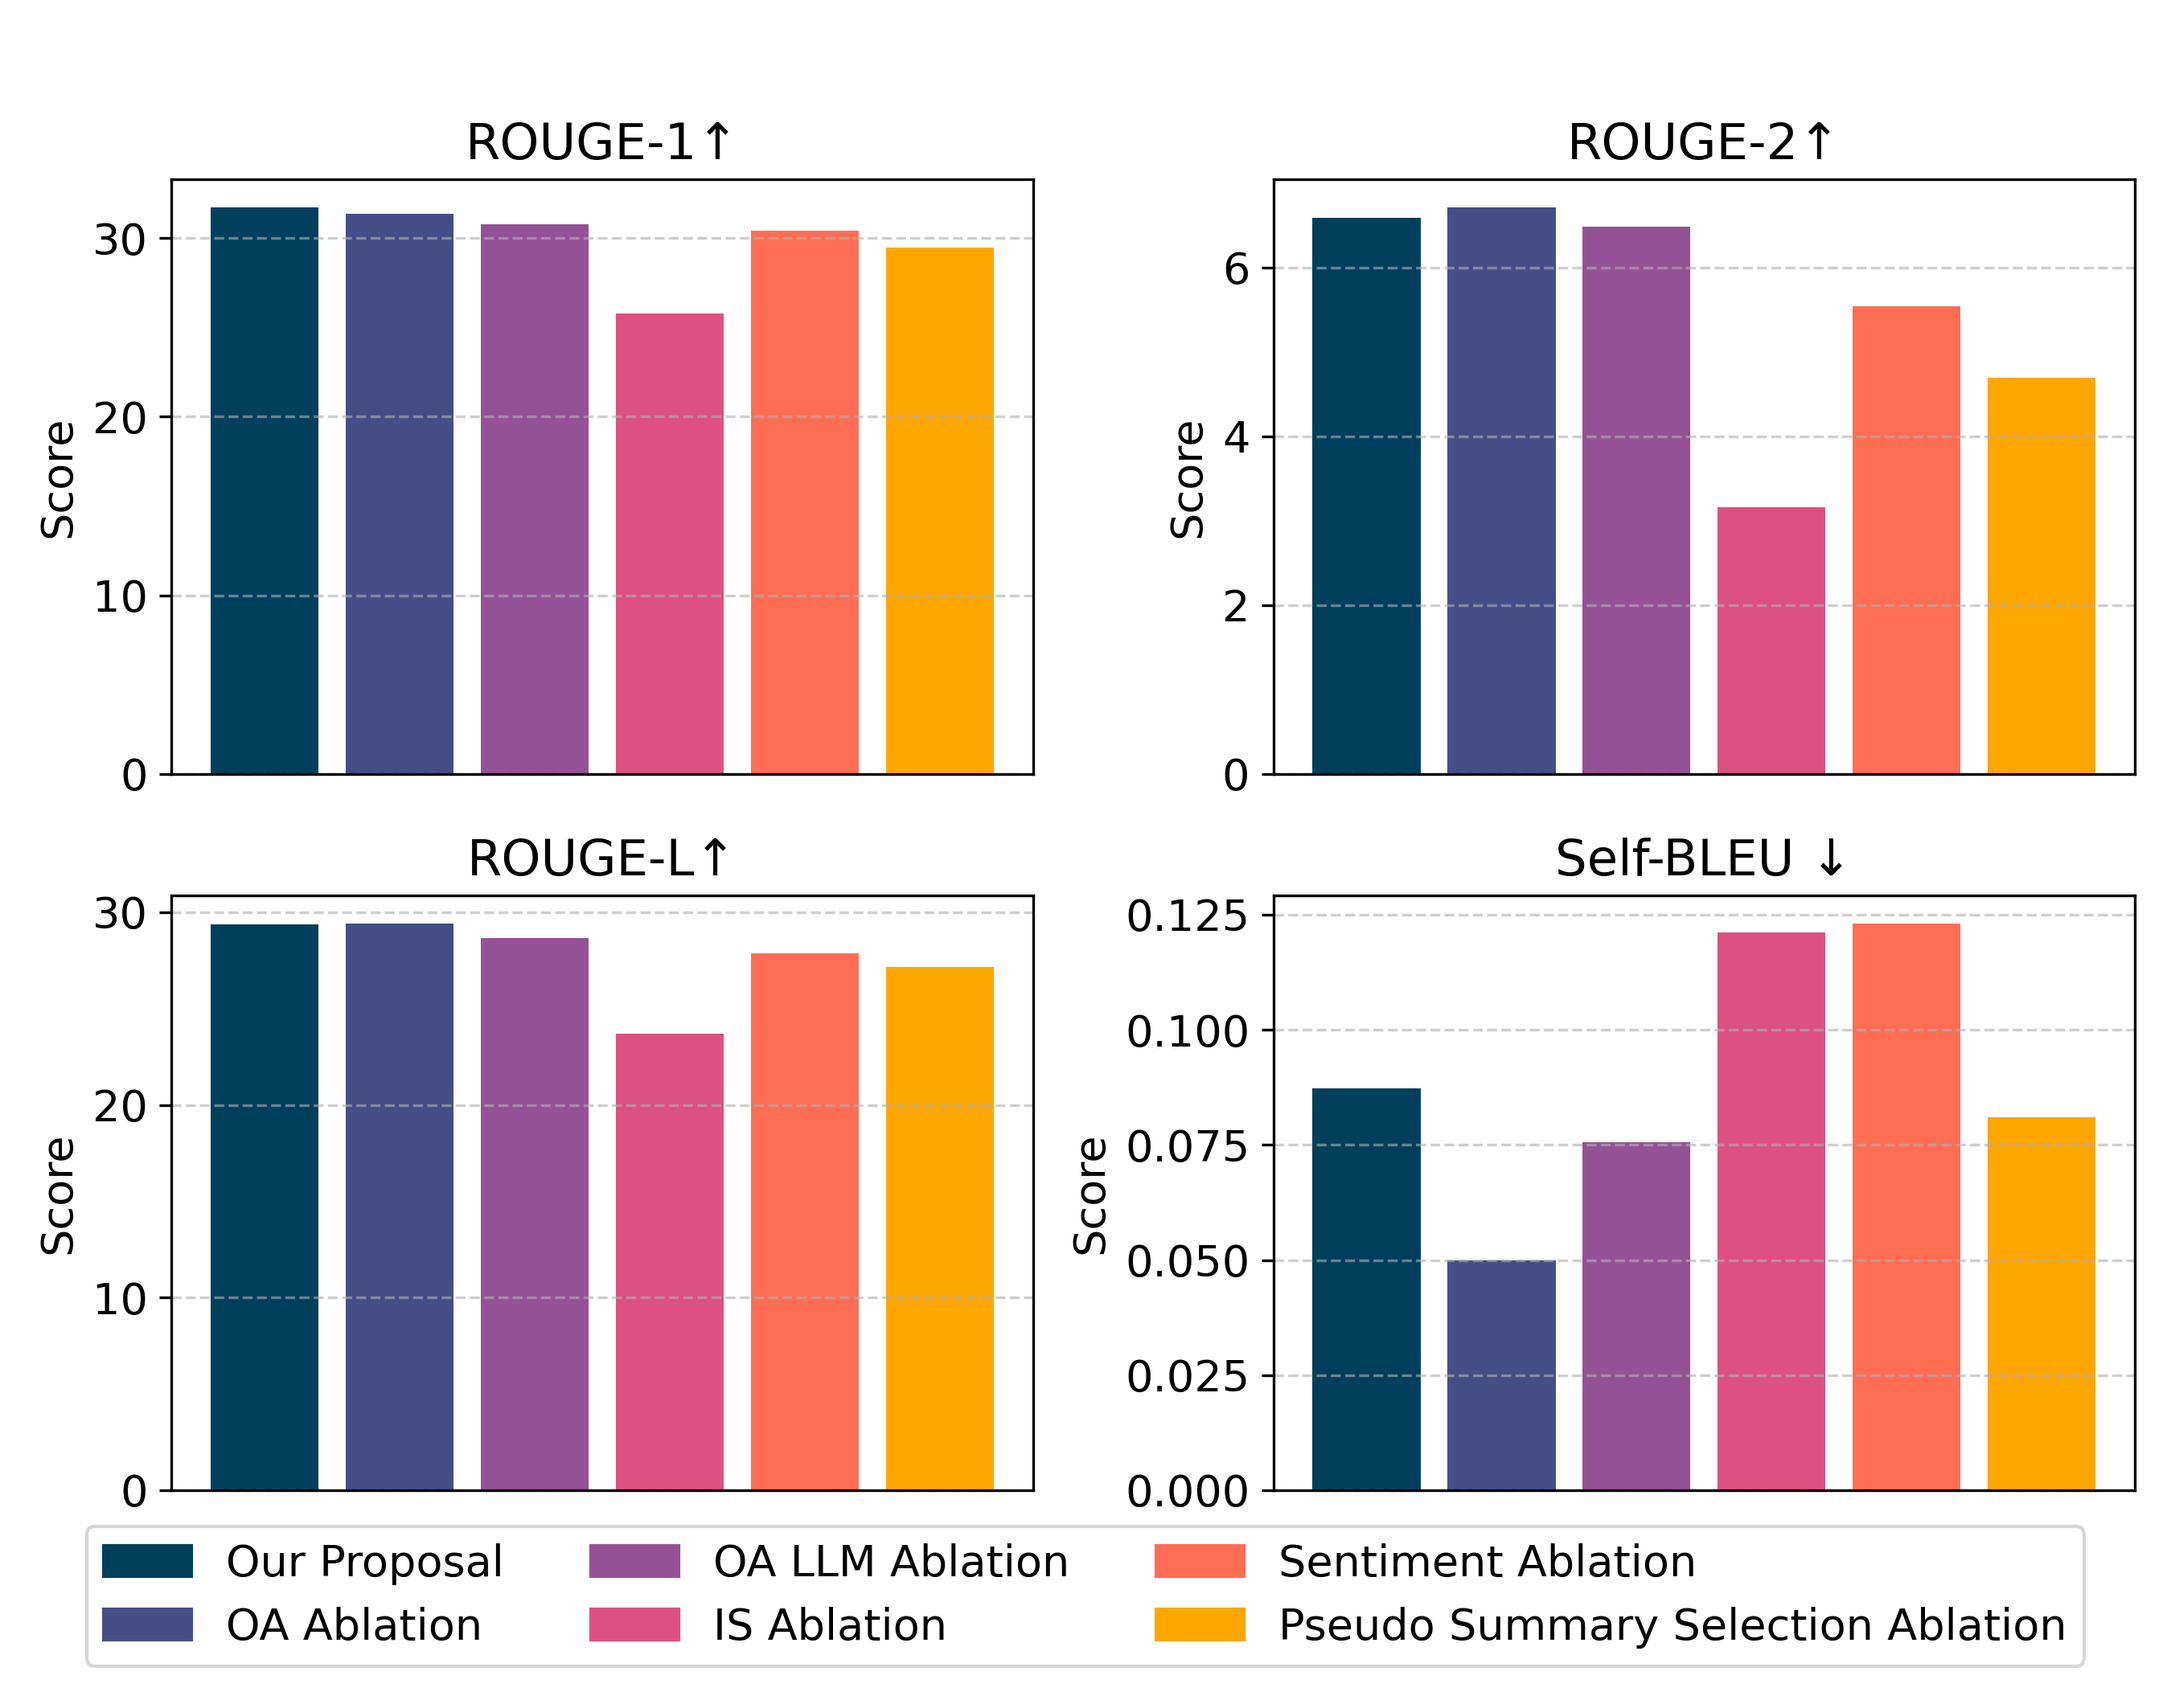
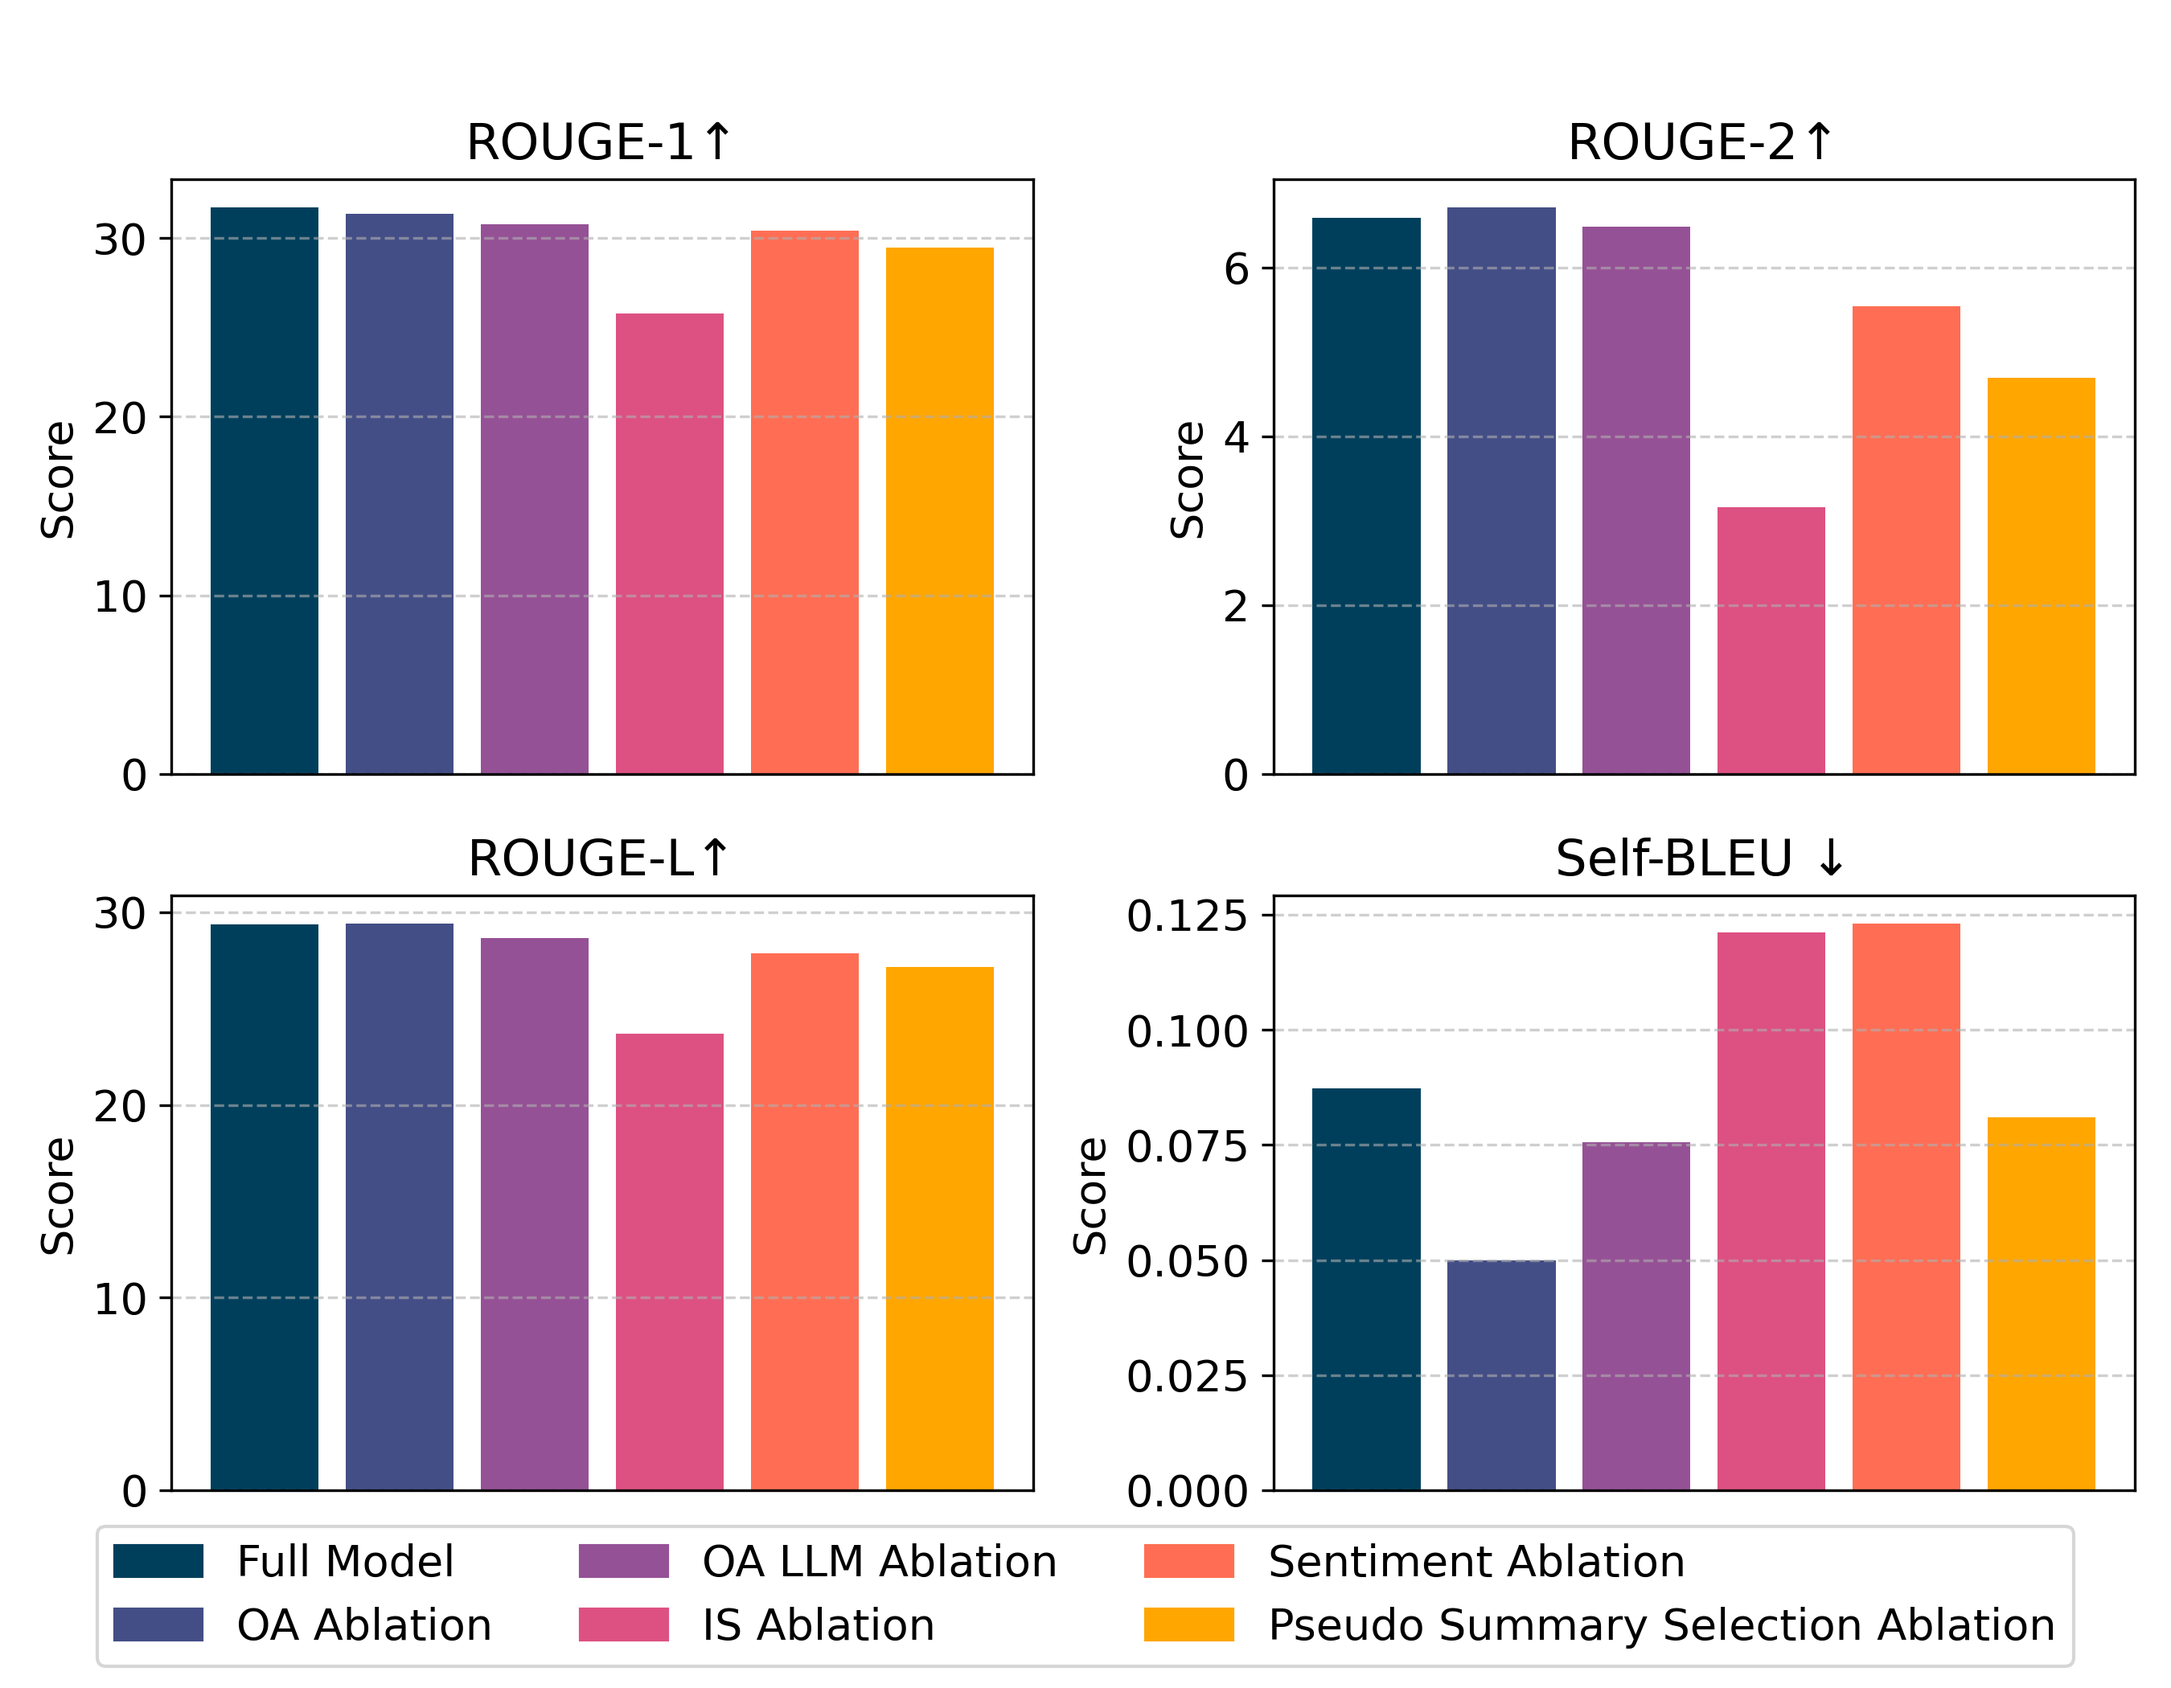
figure

diff --git a/proposal/figure/ablation.py b/proposal/figure/ablation.py
@@ -1,15 +1,18 @@
 import matplotlib.pyplot as plt
 import numpy as np
 
-# Tên các biến thể
+# Cấu hình
 variants = [
-    "Our Proposal", 
+    "Full Model", 
     "OA Ablation", 
     "OA LLM Ablation", 
     "IS Ablation", 
     "Sentiment Ablation", 
-    "Pseudo Summary Selection Ablation"
+    "Pseudo-sum Selection Ablation"
 ]
+x = np.arange(len(variants))
+fontsize = 13
+colors = ['orange', 'coral', 'crimson', 'hotpink']
 
 # Amazon dataset scores
 amazon_rouge1 = [31.71, 31.34, 30.76, 25.76, 30.40, 29.48]
@@ -23,37 +26,33 @@ yelp_rouge2 = [3.88, 2.58, 3.11, 2.52, 3.36, 2.84]
 yelp_rougeL = [23.09, 19.77, 22.79, 21.01, 22.36, 20.32]
 yelp_div = [0.4718, 0.2043, 0.4266, 0.3395, 0.5416, 0.4257]
 
-# Hàm vẽ 4 biểu đồ con trên cùng 1 trang
-def plot_ablation_bars(r1, r2, rL, div, title, filename):
-    x = np.arange(len(variants))
-    width = 0.6
-    colors = ['orange', 'coral', 'crimson', 'hotpink']
-    
+# Hàm tạo plot
+def plot_ablation_clean(r1, r2, rL, div, filename):
     fig, axs = plt.subplots(2, 2, figsize=(14, 10))
-    fig.suptitle(f"Ablation Study on {title} Dataset", fontsize=16)
 
     axs[0, 0].bar(x, r1, color=colors[0])
-    axs[0, 0].set_title("ROUGE-1")
-    
+    axs[0, 0].set_title("ROUGE-1", fontsize=fontsize)
+
     axs[0, 1].bar(x, r2, color=colors[1])
-    axs[0, 1].set_title("ROUGE-2")
-    
+    axs[0, 1].set_title("ROUGE-2", fontsize=fontsize)
+
     axs[1, 0].bar(x, rL, color=colors[2])
-    axs[1, 0].set_title("ROUGE-L")
-    
+    axs[1, 0].set_title("ROUGE-L", fontsize=fontsize)
+
     axs[1, 1].bar(x, div, color=colors[3])
-    axs[1, 1].set_title("Self-BLEU ↓")
+    axs[1, 1].set_title("Self-BLEU ↓", fontsize=fontsize)
 
     for ax in axs.flat:
         ax.set_xticks(x)
-        ax.set_xticklabels(variants, rotation=25, ha="right")
-        ax.set_ylabel("Score")
+        ax.set_xticklabels(variants, rotation=25, ha="right", fontsize=fontsize)
+        ax.set_ylabel("Score", fontsize=fontsize)
+        ax.tick_params(axis='y', labelsize=fontsize)
         ax.grid(axis='y')
 
-    plt.tight_layout(rect=[0, 0, 1, 0.95])
+    plt.tight_layout()
     plt.savefig(filename, dpi=300)
     plt.close()
 
-# Tạo biểu đồ
-plot_ablation_bars(amazon_rouge1, amazon_rouge2, amazon_rougeL, amazon_div, "Amazon", "ablation_amazon_bars.png")
-plot_ablation_bars(yelp_rouge1, yelp_rouge2, yelp_rougeL, yelp_div, "Yelp", "ablation_yelp_bars.png")
+# Vẽ và lưu ảnh
+plot_ablation_clean(amazon_rouge1, amazon_rouge2, amazon_rougeL, amazon_div, "ablation_amazon_bars_clean.png")
+plot_ablation_clean(yelp_rouge1, yelp_rouge2, yelp_rougeL, yelp_div, "ablation_yelp_bars_clean.png")

diff --git a/proposal/figure/oa_yelp_extract_partial_match.py b/proposal/figure/oa_yelp_extract_partial_match.py
@@ -2,8 +2,11 @@ import matplotlib.pyplot as plt
 
 # ==== Dữ liệu ====
 metrics = ["Precision", "Recall"]
-exact_yelp = [0.308, 0.315]     # Kết quả Exact Match
-partial_yelp = [0.356, 0.363]   # Kết quả Partial Match
+exact_yelp = [0.308, 0.315]
+partial_yelp = [0.356, 0.363]
+
+exact_amazon = [0.253, 0.306]
+partial_amazon = [0.348, 0.422]
 
 x = range(len(metrics))
 width = 0.35
@@ -13,21 +16,30 @@ font_title = 15
 font_label = 13
 font_legend = 13
 
-# ==== Vẽ biểu đồ ====
-fig, ax = plt.subplots(figsize=(8, 5))
-ax.bar([p - width/2 for p in x], exact_yelp, width, label="Exact Match", color="#003f5c")
-ax.bar([p + width/2 for p in x], partial_yelp, width, label="Partial Match", color="#444e86")
+# ==== Vẽ 2 biểu đồ trong 1 hình ====
+fig, axs = plt.subplots(1, 2, figsize=(12, 6), sharey=True)
 
-# ==== Thiết lập nhãn và trục ====
-ax.set_ylabel("Score", fontsize=font_label)
-# ax.set_title("Comparison of Exact vs Partial Matching (Yelp)", fontsize=font_title)
-ax.set_xticks(x)
-ax.set_xticklabels(metrics, fontsize=font_label)
-ax.set_ylim(0, 0.5)
-ax.legend(fontsize=font_legend)
-ax.grid(axis='y')
+# --- Yelp ---
+axs[0].bar([p - width/2 for p in x], exact_yelp, width, label="Exact Match", color="#003f5c")
+axs[0].bar([p + width/2 for p in x], partial_yelp, width, label="Partial Match", color="#444e86")
+axs[0].set_title("Yelp Dataset", fontsize=font_title)
+axs[0].set_xticks(x)
+axs[0].set_xticklabels(metrics, fontsize=font_label)
+axs[0].set_ylabel("Score", fontsize=font_label)
+axs[0].set_ylim(0, 0.5)
+axs[0].grid(axis='y')
+axs[0].legend(fontsize=font_legend)
+
+# --- Amazon ---
+axs[1].bar([p - width/2 for p in x], exact_amazon, width, label="Exact Match", color="#003f5c")
+axs[1].bar([p + width/2 for p in x], partial_amazon, width, label="Partial Match", color="#444e86")
+axs[1].set_title("Amazon Dataset", fontsize=font_title)
+axs[1].set_xticks(x)
+axs[1].set_xticklabels(metrics, fontsize=font_label)
+axs[1].grid(axis='y')
+axs[1].legend(fontsize=font_legend)
 
 # ==== Lưu và hiển thị ====
 plt.tight_layout()
-plt.savefig("yelp_oa_match_comparison.png", dpi=300)
+plt.savefig("oa_match_comparison_yelp_amazon.png", dpi=300)
 plt.show()

diff --git a/proposal/figure/ablation_paper.py b/proposal/figure/ablation_paper.py
@@ -3,7 +3,7 @@ import numpy as np
 
 # Tên các biến thể rút gọn cho chú thích
 variants = [
-    "Our Proposal", 
+    "Full Model", 
     "OA Ablation", 
     "OA LLM Ablation", 
     "IS Ablation", 
